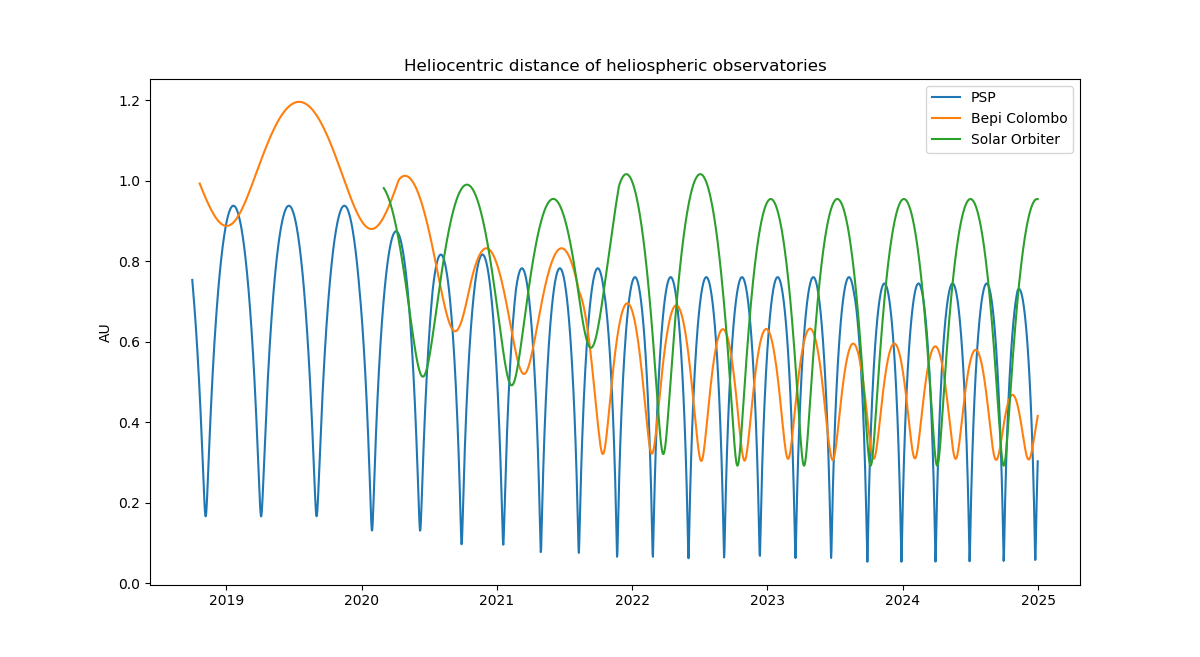
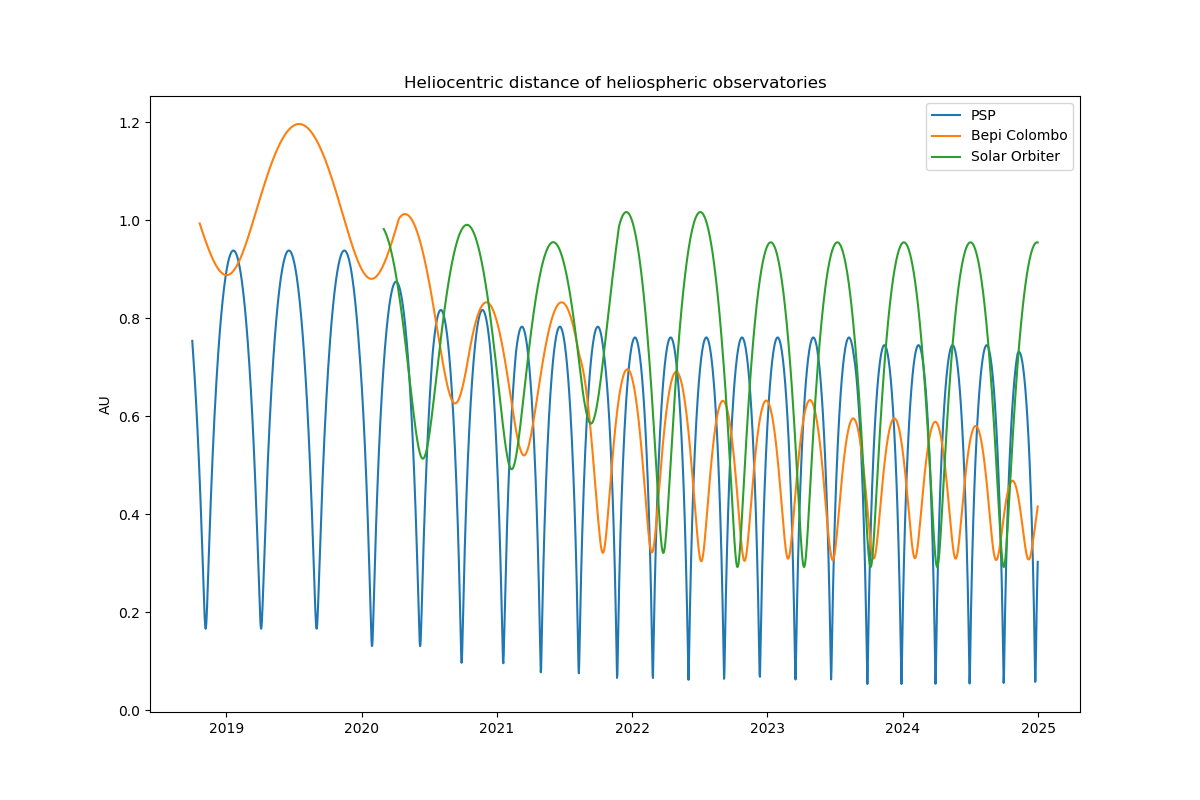
update bepi psp positions

diff --git a/sc_positions.py b/sc_positions.py
@@ -4,7 +4,7 @@
 #twitter @chrisoutofspace, https://github.com/cmoestl
 #started December 2018
 
-#needs python > 3.6 with sunpy, heliopy, spiceypy, cdflib, seaborn
+#needs python 3.6 with sunpy, heliopy, spiceypy, cdflib, seaborn
 
 ## MIT LICENSE
 ## Copyright 2018, Christian Moestl 
@@ -22,9 +22,6 @@
 ## HOLDERS BE LIABLE FOR ANY CLAIM, DAMAGES OR OTHER LIABILITY, WHETHER IN AN ACTION OF 
 ## CONTRACT, TORT OR OTHERWISE, ARISING FROM, OUT OF OR IN CONNECTION WITH THE SOFTWARE 
 ## OR THE USE OR OTHER DEALINGS IN THE SOFTWARE.
-
-
-
 
 
 
@@ -57,6 +54,75 @@ from datetime import datetime, timedelta
 #warnings.filterwarnings('ignore')
 plt.close('all')
 
+
+
+def sphere2cart(r, phi, theta):
+    x = r*np.cos(theta)*np.cos(phi)
+    y = r*np.cos(theta)*np.sin(phi)
+    z = r*np.sin(theta)
+    return (x, y, z) 
+    
+def cart2sphere(x,y,z):
+    r = np.sqrt(x**2+ y**2 + z**2)            # r
+    theta = np.arctan2(z,np.sqrt(x**2+ y**2))     # theta
+    phi = np.arctan2(y,x)                        # phi
+    return (r, theta, phi)
+
+def getcat(filename):  
+  print( 'reading positions in '+filename)
+  pos=scipy.io.readsav(filename, verbose='true')  
+  print( 'done reading positions')
+  return pos 
+
+def cart2pol(x, y):
+    rho = np.sqrt(x**2 + y**2)
+    phi = np.arctan2(y, x)
+    return(rho, phi)
+ 
+def time_to_num_cat(time_in):  
+
+  #for time conversion from catalogue .sav to numerical time
+  #this for 1-minute data or lower time resolution
+
+  #for all catalogues
+  #time_in is the time in format: 2007-11-17T07:20:00 or 2007-11-17T07:20Z
+  #for times help see: 
+  #http://docs.sunpy.org/en/latest/guide/time.html
+  #http://matplotlib.org/examples/pylab_examples/date_demo2.html
+  
+  j=0
+  #time_str=np.empty(np.size(time_in),dtype='S19')
+  time_str= ['' for x in range(len(time_in))]
+  #=np.chararray(np.size(time_in),itemsize=19)
+  time_num=np.zeros(np.size(time_in))
+
+  for i in time_in:
+   #convert from bytes (output of scipy.readsav) to string
+   time_str[j]=time_in[j][0:16].decode()+':00'
+   year=int(time_str[j][0:4])
+   time_str[j]
+   #convert time to sunpy friendly time and to matplotlibdatetime
+   #only for valid times so 9999 in year is not converted
+   #pdb.set_trace()
+   if year < 2100:
+    	  time_num[j]=mdates.date2num(sunpy.time.parse_time(time_str[j]))
+   j=j+1  
+   #the date format in matplotlib is e.g. 735202.67569444
+   #this is time in days since 0001-01-01 UTC, plus 1.
+   
+   #return time_num which is already an array and convert the list of strings to an array
+  return time_num, np.array(time_str)
+
+
+
+
+##################################################### MAIN ###############################
+
+
+#get positions old style:
+pos=getcat('DATACAT/positions_2007_2023_HEEQ_6hours.sav')
+pos_time_num=time_to_num_cat(pos.time)[0]
+
 #https://heliopy.readthedocs.io/en/stable/api/heliopy.spice.Trajectory.html#heliopy.spice.Trajectory.generate_positions
 
 #load kernels if not here
@@ -66,49 +132,59 @@ spicedata.get_kernel('planet_trajectories')
 #Solar orbiter 'solo_2020'
 #for PSP NAIF CODE is -96 (search for solar probe plus)
 #-144        'SOLAR ORBITER'
-
 #Earth 399
+
+
+
+
+############ PSP
 
 spice.furnish(spicedata.get_kernel('psp'))
 psp=spice.Trajectory('-96')
 
 starttime =datetime(2018, 10, 1)
 endtime = datetime(2025, 1, 1)
-times = []
+psp_time = []
 while starttime < endtime:
-    times.append(starttime)
+    psp_time.append(starttime)
     starttime += timedelta(days=1)
-
+    
+psp_time_num=mdates.date2num(psp_time)     
 #frames https://naif.jpl.nasa.gov/pub/naif/toolkit_docs/C/req/frames.html  Appendix. ``Built in'' Inertial Reference Frames
-
-psp.generate_positions(times,'Sun','ECLIPJ2000')
+psp.generate_positions(psp_time,'Sun','ECLIPJ2000')
 #pspe.generate_positions(time2,'Sun','ECLIPJ2000')
-
 psp.change_units(astropy.units.AU)  
-
-
 print('PSP')
-
 print(psp.r)
 print(psp.x)
 print(psp.y)
 print(psp.z)  
 
 
-plt.figure(1)
-plt.plot_date(times,psp.r,'-')
-plt.plot_date(times,psp.x,'-')
-plt.plot_date(times,psp.y,'-')
-plt.plot_date(times,psp.z,'-')
+[psp_r, psp_theta, psp_phi]=cart2sphere(psp.x,psp.y,psp.z)
 
 
+plt.figure(1, figsize=(12,9))
+plt.plot_date(psp_time,psp_r,'-', label='R')
+
+plt.plot_date(psp_time,psp_theta,'-',label='theta')
+
+plt.plot_date(psp_time,psp_phi,'-',label='phi')
+
+
+#plt.plot_date(psp_time,psp.x,'-',label='X')
+#plt.plot_date(psp_time,psp.y,'-',label='Y')
+#plt.plot_date(psp_time,psp.z,'-',label='Z')
+plt.legend()
+
+plt.title('PSP position ECLIPJ2000')
+plt.ylabel('AU')
+
+
+################ ********** TO DO CHANGE FROM ECLIPJ2000 to HEEQ
 
 print()
-
 print()
-
-
-
 
 
 
@@ -118,24 +194,18 @@ print()
 
 starttime =datetime(2018, 10, 21)
 endtime = datetime(2025, 1, 1)
-times2 = []
+bepi_time = []
 while starttime < endtime:
-    times2.append(starttime)
+    bepi_time.append(starttime)
     starttime += timedelta(days=1)
 
-
-
 #    -68         'BEPICOLOMBO MMO'
-
 print('Bepi')
-
 
 spice.furnish('/Users/chris/heliopy/data/spice/bc_mpo_fcp_00040_20181020_20251102_v01.bsp')
 bepi=spice.Trajectory('BEPICOLOMBO MPO')
 
-
-
-bepi.generate_positions(times2,'Sun','J2000')
+bepi.generate_positions(bepi_time,'Sun','J2000')
 #bepie.generate_positions(time2,'Sun','ECLIPJ2000')
 
 bepi.change_units(astropy.units.AU)  
@@ -146,10 +216,16 @@ print(bepi.y)
 print(bepi.z)  
 
 plt.figure(2)
-plt.plot_date(times2,bepi.r,'-')
-plt.plot_date(times2,bepi.x,'-')
-plt.plot_date(times2,bepi.y,'-')
-plt.plot_date(times2,bepi.z,'-')
+plt.plot_date(bepi_time,bepi.r,'-')
+plt.plot_date(bepi_time,bepi.x,'-')
+plt.plot_date(bepi_time,bepi.y,'-')
+plt.plot_date(bepi_time,bepi.z,'-')
+
+
+
+[bepi_r, bepi_theta, bepi_phi]=cart2sphere(bepi.x,bepi.y,bepi.z)
+
+
 
 ###################Solar Orbiter
 
@@ -164,26 +240,103 @@ orbiter = spice.Trajectory('Solar Orbiter')
 # Generate a time for every day between starttime and endtime
 starttime = datetime(2020, 3, 1)
 endtime = datetime(2025, 1, 1)
-times3 = []
+solo_time = []
 while starttime < endtime:
-    times3.append(starttime)
+    solo_time.append(starttime)
     starttime += timedelta(days=1)
 
 ###############################################################################
 # Generate positions
-orbiter.generate_positions(times3, 'Sun', 'ECLIPJ2000')
+orbiter.generate_positions(solo_time, 'Sun', 'ECLIPJ2000')
 orbiter.change_units(astropy.units.AU)
 
-
-
-
 plt.figure(3, figsize=(12,8))
-
-plt.plot_date(times,psp.r,'-',label='PSP')
-plt.plot_date(times2,bepi.r,'-',label='Bepi Colombo')
-plt.plot_date(times3,orbiter.r,'-',label='Solar Orbiter')
+plt.plot_date(psp_time,psp.r,'-',label='PSP')
+plt.plot_date(bepi_time,bepi.r,'-',label='Bepi Colombo')
+plt.plot_date(solo_time,orbiter.r,'-',label='Solar Orbiter')
 plt.legend()
 plt.title('Heliocentric distance of heliospheric observatories')
 plt.ylabel('AU')
 plt.savefig('bepi_psp_solo.png')
+
+
+
+######################## Animation
+
+
+frame_time_num=mdates.date2num(sunpy.time.parse_time('2020-Nov-3 18:00:00'))
+
+k=0
+
+plt.figure(4, figsize=(12,9), dpi=100, facecolor='w', edgecolor='w')
+
+ax = plt.subplot(111,projection='polar')
+
+dct=frame_time_num+k-pos_time_num
+#get index of closest to 0, use this for position
+timeind=np.argmin(abs(dct))
+
+
+dct=frame_time_num+k-psp_time_num
+#get index of closest to 0, use this for position
+psp_timeind=np.argmin(abs(dct))
+
+frame_time_str=str(mdates.num2date(frame_time_num+k))
+print( 'current frame_time_num', frame_time_str)
+
+#index 1 is longitude, 0 is rdist
+symsize=100
+ax.scatter(pos.venus[1,timeind], pos.venus[0,timeind], s=symsize, c='orange', alpha=1, lw=0, zorder=3)
+ax.scatter(pos.mercury[1,timeind], pos.mercury[0,timeind], s=symsize, c='dimgrey', alpha=1,lw=0, zorder=3)
+ax.scatter(pos.sta[1,timeind], pos.sta[0,timeind], s=symsize, c='red', alpha=1,marker='s',lw=0,zorder=3)
+ax.scatter(pos.earth[1,timeind], pos.earth[0,timeind], s=symsize, c='mediumseagreen', alpha=1,lw=0,zorder=3)
+ax.scatter(pos.mars[1,timeind], pos.mars[0,timeind], s=symsize, c='orangered', alpha=1,lw=0,zorder=3)
+ax.scatter(psp_phi[psp_timeind], psp_r[psp_timeind], s=symsize, c='black', marker='s', alpha=1,lw=0,zorder=3)
+ 
+
+ 
+plt.suptitle('Spacecraft trajectories')	
+ 
+#Sun
+ax.scatter(0,0,s=100,c='yellow',alpha=0.8, edgecolors='yellow')
+plt.figtext(0.51,0.5,'Sun', fontsize=10, ha='center')
+
+#Earth
+plt.figtext(0.51,0.28,'Earth', fontsize=10, ha='center')
+
+#units
+plt.figtext(0.525,0.0735,'HEEQ longitude', fontsize=10, ha='left')
+#	plt.figtext(0.64,0.213,'AU', fontsize=10, ha='center')
+
+#----------------- legend
+
+plt.figtext(0.1-0.02,0.02,'Mercury', color='dimgrey', ha='center')
+plt.figtext(0.2-0.02	,0.02,'Venus', color='orange', ha='center')
+plt.figtext(0.3-0.02,0.02,'Earth', color='mediumseagreen', ha='center')
+plt.figtext(0.4-0.02,0.02,'Mars', color='orangered', ha='center')
+plt.figtext(0.5-0.02,0.02,'STEREO-A', color='red', ha='center')
+plt.figtext(0.8-0.02,0.02,'Parker Solar Probe', color='black', ha='center')
+
+ 
+#set axes
+plt.thetagrids(range(0,360,45),(u'0\u00b0',u'45\u00b0',u'90\u00b0',u'135\u00b0',u'+/- 180\u00b0',u'- 135\u00b0',u'- 90\u00b0',u'- 45\u00b0'), fmt='%d')
+ax.set_theta_zero_location('S')
+plt.rgrids((0.25,0.5,0.75, 1.0,1.25, 1.5, 1.75, 2.0),('0.25','0.5','0.75','1.0','1.25','1.5','1.75','2.0 AU'))
+ax.set_ylim(0, 1.5)
+
+#plot text for date extra so it does not move 
+#year
+plt.figtext(0.47,0.85,frame_time_str[0:4], fontsize=13, ha='center')
+#month
+plt.figtext(0.51,0.85,frame_time_str[5:7], fontsize=13, ha='center')
+#day
+plt.figtext(0.54,0.85,frame_time_str[8:10], fontsize=13, ha='center')
+#hours
+plt.figtext(0.57,0.85,frame_time_str[11:13], fontsize=13, ha='center')
+
+
+
+
+
+
 
